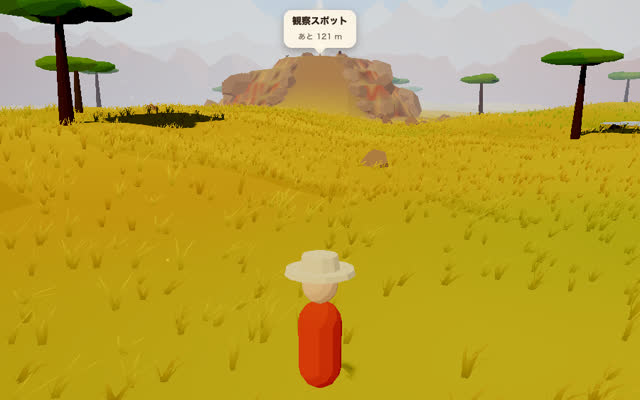
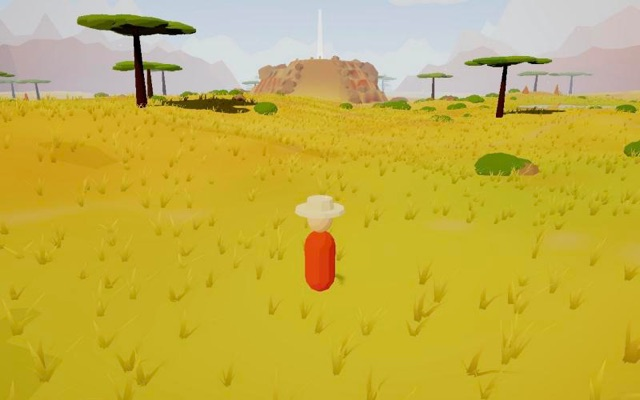
地図とアニマルスコープのサバンナを新しい見た目に合わせる: 地図の地面は 3D と同じまだら・赤土・若草色の出し方で色を出し、アカシアは傘の冠の色に。スコープのサバンナの写真を撮り直す

diff --git a/src/ui/minimap.ts b/src/ui/minimap.ts
@@ -2,6 +2,7 @@ import { ACACIAS, KOPJE, SPOT, WALK_RADIUS, WATERHOLE } from '../world/layout'
 import { OUTER_REGIONS, PASS_HALF_WIDTH, REGIONS, distToPassAxis, isWalkable } from '../world/regions'
 import type { RegionKey } from '../world/regions'
 import { Simplex2D, smoothstep } from '../world/noise'
+import { savannaMapColor } from '../world/terrain'
 import { getWorld } from '../data/worlds'
 import { getLang, t } from './i18n'
 
@@ -60,10 +61,13 @@ const C = {
   beach: '#f6e7bd',
   coastLine: 'rgba(70, 52, 38, 0.5)',
   water: '#8fc6ec',
-  rock: '#b8834a',
-  ramp: '#c9a27a',
-  plateau: '#dcc29a',
-  tree: '#6fae2e',
+  // コピエは 3D の岩肌（少し明るくなった）と赤い地層に合わせる
+  rock: '#bf8a5a',
+  ramp: '#d3ab7f',
+  plateau: '#e2c89e',
+  // アカシアは 3D の傘の冠と同じ、少しくすんだ若葉色。明るい所を左上に重ねる
+  tree: '#7a9a38',
+  treeLit: '#a9bf58',
   road: '#fff6e6',
   roadEdge: 'rgba(110, 78, 48, 0.55)',
   spot: '#f4c242',
@@ -155,12 +159,25 @@ export function isLand(x: number, z: number): boolean {
 // 地面の色: ワールドごとの 2 色をノイズで揺らし、重みで混ぜる。荒い格子に描いて、地図では拡大してぼかす
 // ---------------------------------------------------------------------------
 const KEYS = REGIONS.map((r) => r.key)
+// サバンナは 3D の地面と同じ色の出し方（savannaMapColor）。地図では上から広く見えて、まだらが迷彩のように細かく見えるので、
+// 差を少し縮め、彩度を少し上げて、地図の明るい絵柄に合わせて白へ少し寄せる。この 2 色は、サバンナの重みが小さい山の向こうだけに使う（描く時間を抑える）
 const GROUND: Record<RegionKey, [[number, number, number], [number, number, number]]> = {
   africa: [hex('#f4da88'), hex('#d9ad44')],
   north: [hex('#f6f9fc'), hex('#c6d5e5')],
   jungle: [hex('#92c46c'), hex('#4c8c44')],
   south: [hex('#eeae7c'), hex('#c46e48')],
 }
+const SAVANNA_SAT = 1.3
+const SAVANNA_SPREAD = 0.7
+const SAVANNA_LIFT = 0.1
+/** まだらの差を縮める中心（平原のふつうの色） */
+const SAVANNA_MID = hex('#e2c06a')
+const savannaTone = (c: [number, number, number], i: number, lum: number): number => {
+  const v = lum + (c[i] - lum) * SAVANNA_SAT
+  const m = SAVANNA_MID[i] + (v - SAVANNA_MID[i]) * SAVANNA_SPREAD
+  return Math.min(255, Math.max(0, m + (255 - m) * SAVANNA_LIFT))
+}
+const _sav: [number, number, number] = [0, 0, 0]
 const warpNoise = new Simplex2D(4021)
 const toneNoise = new Simplex2D(5113)
 const _f = new Float32Array(REGIONS.length)
@@ -223,6 +240,14 @@ function groundTexture(): HTMLCanvasElement {
       for (let k = 0; k < KEYS.length; k++) {
         const wk = wts[k]
         if (wk <= 0) continue
+        if (k === 0 && wk > 0.15) {
+          savannaMapColor(x, z, _sav)
+          const lum = _sav[0] * 0.2126 + _sav[1] * 0.7152 + _sav[2] * 0.0722
+          r += wk * savannaTone(_sav, 0, lum)
+          gg += wk * savannaTone(_sav, 1, lum)
+          b += wk * savannaTone(_sav, 2, lum)
+          continue
+        }
         const [lo, hi] = GROUND[KEYS[k]]
         r += wk * (lo[0] + (hi[0] - lo[0]) * tone)
         gg += wk * (lo[1] + (hi[1] - lo[1]) * tone)
@@ -718,11 +743,16 @@ export function createMapRenderer(options: { width: number; height?: number; lab
     b.arc(px(KOPJE.x), py(KOPJE.z), KOPJE.radius * KOPJE.plateau * k, 0, Math.PI * 2)
     b.fill()
 
-    // サバンナのアカシア
-    b.fillStyle = C.tree
+    // サバンナのアカシア: 平たい傘の冠
     for (const tr of ACACIAS) {
+      const rr = 3 * u * tr.scale * Math.min(1, k / ((width / 2) / MINIMAP_RADIUS)) ** 0.5
+      b.fillStyle = C.tree
       b.beginPath()
-      b.arc(px(tr.x), py(tr.z), 2.6 * u * tr.scale * Math.min(1, k / ((width / 2) / MINIMAP_RADIUS)) ** 0.5, 0, Math.PI * 2)
+      b.arc(px(tr.x), py(tr.z), rr, 0, Math.PI * 2)
+      b.fill()
+      b.fillStyle = C.treeLit
+      b.beginPath()
+      b.arc(px(tr.x) - rr * 0.28, py(tr.z) - rr * 0.28, rr * 0.5, 0, Math.PI * 2)
       b.fill()
     }
 

diff --git a/src/world/terrain.ts b/src/world/terrain.ts
@@ -144,12 +144,14 @@ export function savannaTrail(x: number, z: number): number {
 // 地層の帯。赤い層・黄土の層・暗い層が重なる
 const colStrata = [new THREE.Color('#c46c4a'), new THREE.Color('#e2aa6e'), new THREE.Color('#8f5f48')]
 
-function savannaColor(x: number, z: number, h: number, out: THREE.Color): void {
+function savannaColor(x: number, z: number, h: number, out: THREE.Color, forMap = false): void {
   const n = detail.noise(x * 0.03 + 11, z * 0.03 - 5) * 0.5 + 0.5
   out.copy(colGrass).lerp(colGrassDry, n * 0.7)
-  // 細かいむら（数 m）。一面ののっぺりした色に見せない
-  const fine = detail.noise(x * 0.11 - 2, z * 0.11 + 6)
-  out.lerp(fine > 0 ? colGrassDry : colGrassTawny, Math.abs(fine) * 0.35)
+  // 細かいむら（数 m）。一面ののっぺりした色に見せない（地図の荒い格子では粒になるので入れない）
+  if (!forMap) {
+    const fine = detail.noise(x * 0.11 - 2, z * 0.11 + 6)
+    out.lerp(fine > 0 ? colGrassDry : colGrassTawny, Math.abs(fine) * 0.35)
+  }
 
   // 大きなまだら。草むらと同じノイズで、淡く枯れた帯・こがね色の帯・若草色の帯を作る
   const big = patch.noise(x * 0.02 + 3, z * 0.02 - 7) * 0.5 + 0.5
@@ -166,9 +168,11 @@ function savannaColor(x: number, z: number, h: number, out: THREE.Color): void {
   const bare = bareNoise.noise(x * 0.045 + 7, z * 0.045 - 3)
   out.lerp(colBare, smoothstep(0.52, 0.72, bare) * 0.7)
 
-  // 踏み分け道
-  const trail = savannaTrail(x, z)
-  if (trail > 0) out.lerp(colTrail, trail * 0.6)
+  // 踏み分け道（幅が地図の格子より細いので、地図には入れない）
+  if (!forMap) {
+    const trail = savannaTrail(x, z)
+    if (trail > 0) out.lerp(colTrail, trail * 0.6)
+  }
 
   // 水場のまわりは土と緑
   const dw = Math.hypot(x - WATERHOLE.x, z - WATERHOLE.z) / (WATERHOLE.radius * 1.9)
@@ -178,6 +182,9 @@ function savannaColor(x: number, z: number, h: number, out: THREE.Color): void {
     const mud = 1 - smoothstep(0.45, 0.7, dw)
     out.lerp(colEarth, mud * 0.9)
   }
+
+  // 地図はここまで（コピエは地図の上に別に描く。斜面の土は平原にはほとんどない）
+  if (forMap) return
 
   const slope = terrainSlope(x, z, 0.6)
 
@@ -203,6 +210,20 @@ function savannaColor(x: number, z: number, h: number, out: THREE.Color): void {
 
   // 急斜面は土が見える
   if (slope < 0.92) out.lerp(colEarth, Math.min(1, (0.92 - slope) * 4))
+}
+
+const _mapCol = new THREE.Color()
+const _mapRgb = { r: 0, g: 0, b: 0 }
+/**
+ * 地図に描くサバンナの地面の色（sRGB 0..255）。3D の地面と同じまだら・赤土・低い所の若草色・水場のまわりの土。
+ * 数 m の細かいむらと踏み分け道は、地図の格子（5m）より細かいので入れない
+ */
+export function savannaMapColor(x: number, z: number, out: [number, number, number]): void {
+  savannaColor(x, z, terrainHeight(x, z), _mapCol, true)
+  _mapCol.getRGB(_mapRgb, THREE.SRGBColorSpace)
+  out[0] = _mapRgb.r * 255
+  out[1] = _mapRgb.g * 255
+  out[2] = _mapRgb.b * 255
 }
 
 // 北の世界: 雪と、風で雪の飛んだ岩・枯れ草

diff --git a/DEVLOG.md b/DEVLOG.md
@@ -491,3 +491,11 @@
 - 検証: スマホと同じ描き方（色補正なし）と PC の描き方（色補正あり）の両方で、コピエへ向かう地上・頂上・ライオン一家・入口の 4 か所を前と並べて見た。PC でも白飛びしない。スタートから地図のタップと同じ経路で 65 か所（北・ジャングル・南半球のスポット、コピエの頂上、水場、平原の 60 点）へ実際に歩かせ、64 か所に着いた。止まった 1 か所はコピエの西の崖の上で、前から残っている件と同じ。コンソールにエラーなし、`npm run build` 通過
 - 検証（iPhone 実機・ユーザー）: `?debug=1` でスタート・コピエの前・水場のそばとも 60fps で安定
 - 残り: ミニマップと地図のサバンナの色、アニマルスコープのサバンナの写真（`/home/peek.jpg`）は前の見た目のまま
+
+## 2026-11-05 地図とアニマルスコープのサバンナを新しい見た目に合わせる
+- 指示: ミニマップ・地図・アニマルスコープのサバンナを新しい見た目に合わせて
+- 地図の地面: サバンナの重みが大きい所（0.15 より上）は、3D の地面と同じ計算（`savannaMapColor`。大きなまだら・こがね色の帯・低い所の若草色・赤土のまだら・水場のまわりの土）で色を出す。数 m の細かいむらと踏み分け道は地図の格子（5m）より細いので入れない。地面の素の色は日に照らされた画面より淡いので、彩度を 1.3 倍、まだらの差を 0.7 倍に縮め、白へ 1 割寄せた。重みの小さい山の向こうはいままでの 2 色のまま。3D の地面の色は変えていない（地図の時だけ通る分岐）
+- 地図のアカシア: 明るい緑の点 → 3D の傘の冠に近い、くすんだ若葉色の円に、明るい所を左上に重ねる。少し大きく。コピエの岩肌・坂・台地も少し明るく
+- アニマルスコープのサバンナの写真（`/home/peek.jpg`）: 入口の眺め（`view('entrance')`）を PC の描き方で撮り直し、640×400・sRGB にした（画面の P3 のままだとビューアによってくすむ）。前と違い、観察スポットのふきだしは入れていない
+- 検証: dev サーバーで前の地図（HEAD の minimap.ts を一時的に複製）と並べて、ミニマップの範囲・大陸の全体の両方を見た。北・ジャングルとの境目に段差なし。ゲーム内の広げた地図とアニマルスコープの段の写真も確認。地面の絵を作る時間は PC で 70ms → 92ms（初回だけ）。コンソールにエラーなし、`npm run build` 通過
+- 未確認: iPhone 実機での地図の初回の描き込み時間
